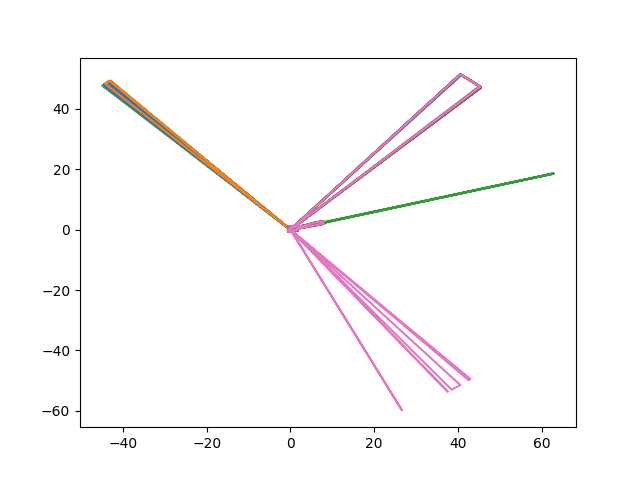
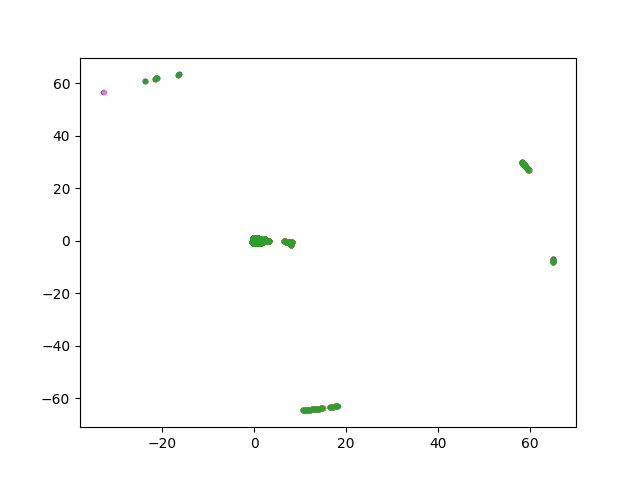
star intergrate tf

diff --git a/src/node.py b/src/node.py
@@ -28,8 +28,8 @@ class Main(object):
         angles = np.arange(scan.angle_min, scan.angle_min + n * scan.angle_increment, scan.angle_increment)
         x = ranges * np.cos(angles)
         y = ranges * np.sin(angles)
-        plt.plot(x, y)
-        plt.savefig('/home/ubuntu/catkin_ws/src/robot-perception/src/scan_view.png', '.')
+        plt.plot(x, y, '.')
+        plt.savefig('/home/ubuntu/catkin_ws/src/robot-perception/src/scan_view.png')
         return ranges, angles
 
 
